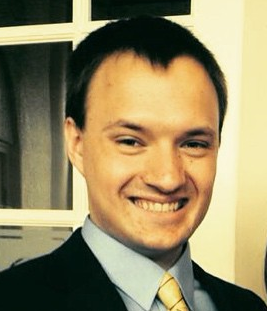
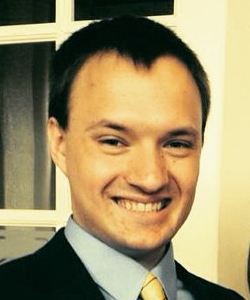
update picture and index.html
Added new picture and added it to the main page

diff --git a/index.html b/index.html
@@ -9,7 +9,7 @@
 </head>
 <body>
 <!--header-panel
-# <a href="http://skrzym.github.io"><img src="MS_logo.png" alt="MS" style="width:80px;height:80px"></a> Michael Skrzypiec-->
+# <a href="http://skrzym.github.io"><img src="MS_picture.png" alt="MS" style="width:125px;height:150px"></a> Michael Skrzypiec-->
 <!--fixed-top-bar->header-bar-->
 
 <!--header-bar
@@ -18,20 +18,19 @@
 [/navbar]-->
 
 <!--content-panel
-[panel header="Recent Projects" parameters] 
-* Projects 
+[panel header="Current Projects" parameters]
+* Projects
 
 [/panel]
 -->
 
 <!--right-side-panel
 ## Personal Updates
-Preping to move to San Francisco!
 -->
 
 <!--footer-panel
 ***
-<a href="https://www.twitter.com/skrzym">@skrzym</a>
+[@skrzym](https://www.twitter.com/skrzym)
 -->
 
 <noscript><div class="alert alert-warning">This Website requires your browser to be JavaScript enabled.</div></noscript>
